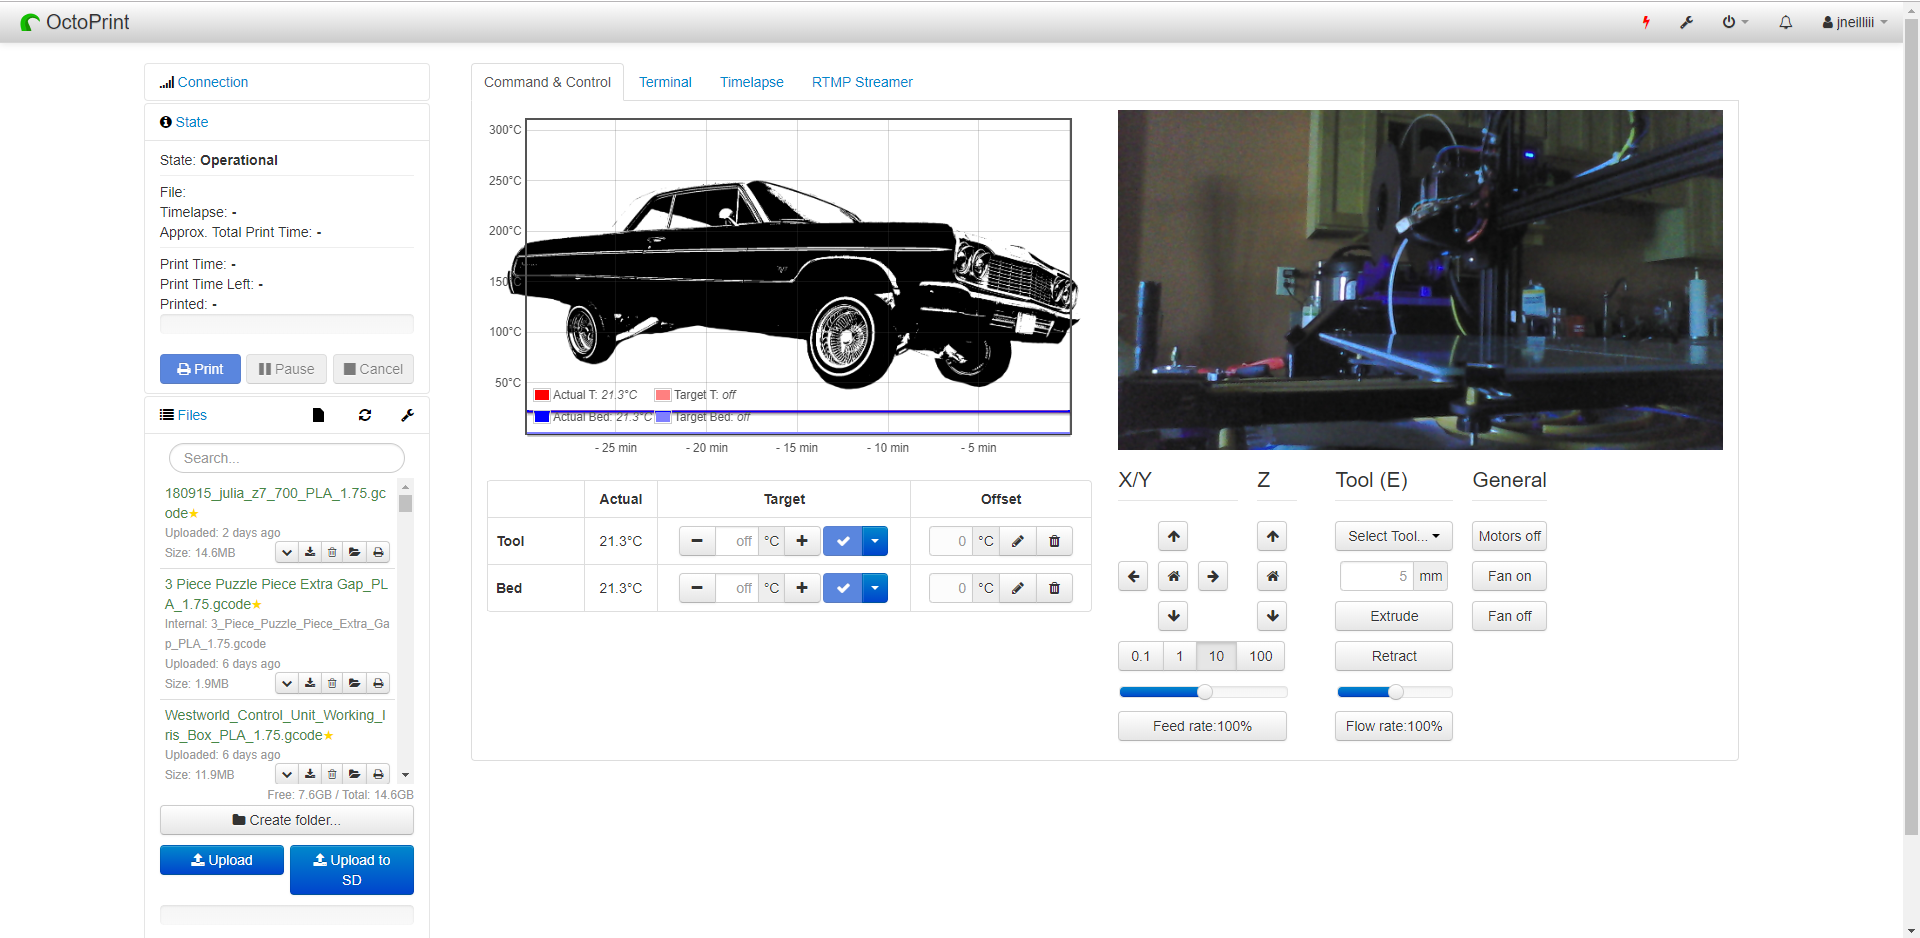
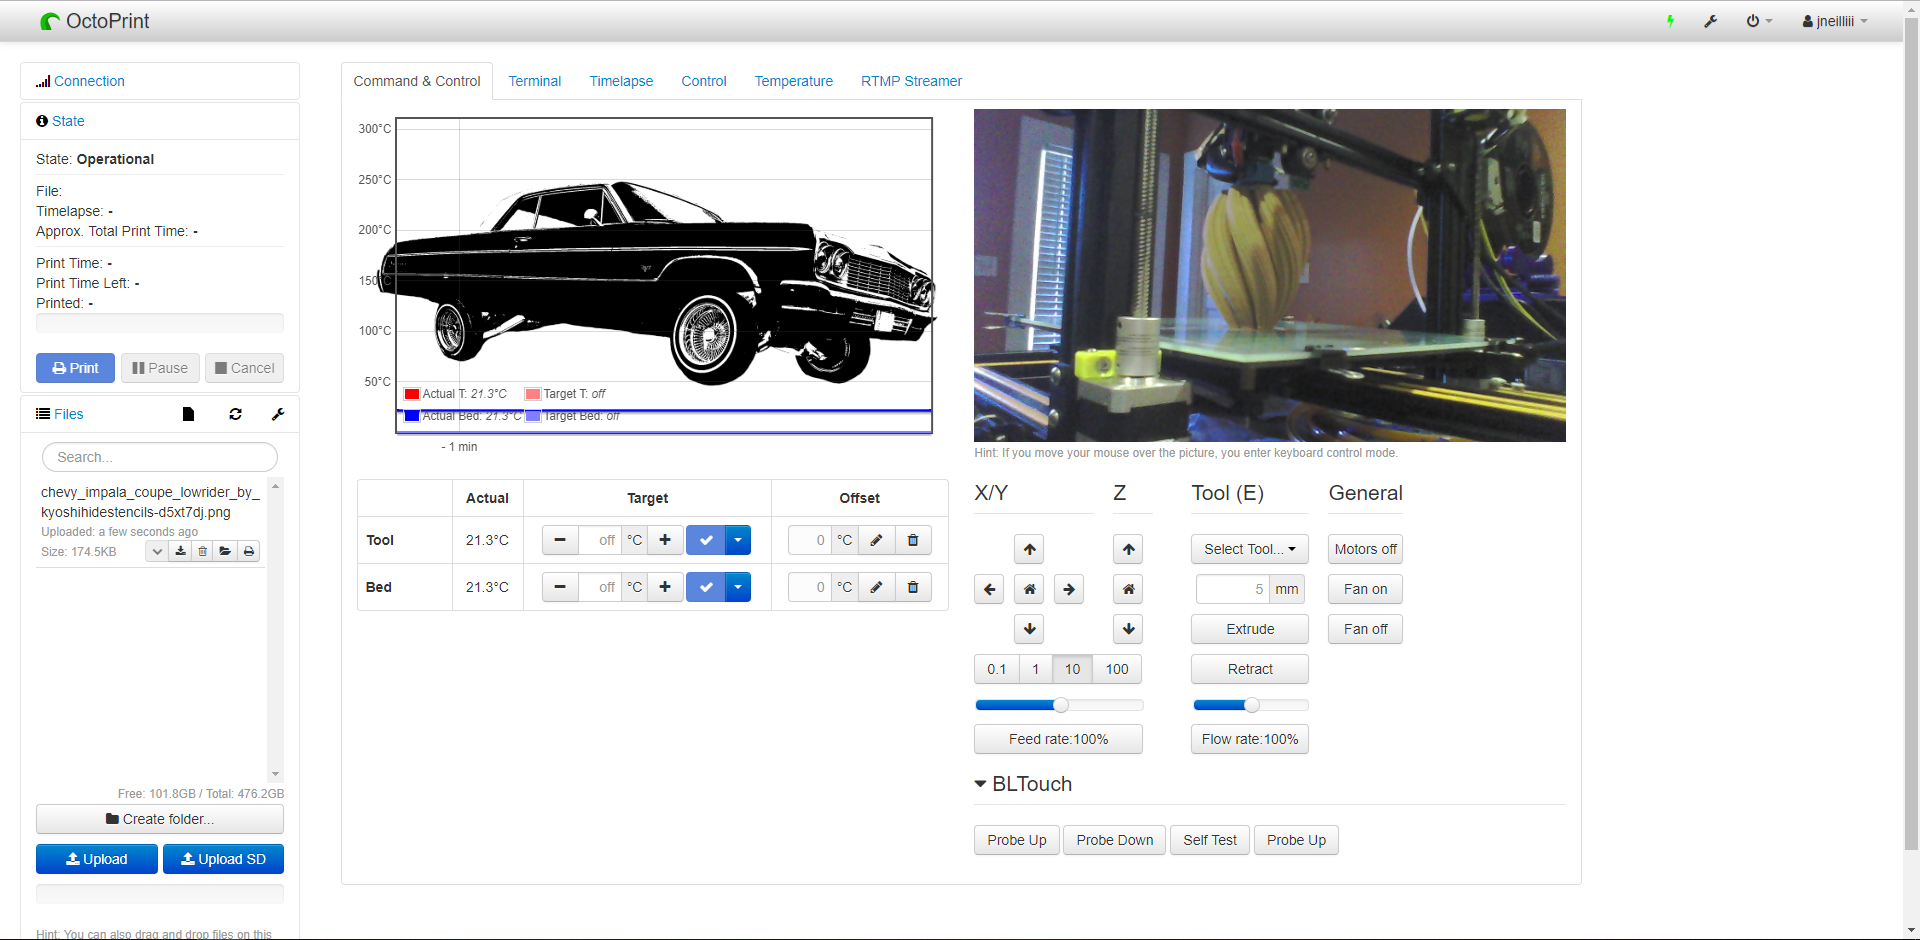
0.1.1

diff --git a/octoprint_consolidate_temp_control/static/js/consolidate_temp_control.js b/octoprint_consolidate_temp_control/static/js/consolidate_temp_control.js
@@ -5,20 +5,36 @@ $(function() {
         self.controlViewModel = parameters[0];
         self.temperatureViewModel = parameters[1];
 		
+		// hide orginal temp and control tab
 		$('#control_link,#temp_link').hide();
-		$('#navbar > div.navbar-inner > div.container').removeClass('container').addClass('row-fluid').css('padding-left','20px');
-		$('#navbar > div.navbar-inner > div.row-fluid > div.nav-collapse').css('padding-right','20px');
+		
+		// page container adjustments
+		$('div.page-container').css({'min-width':'1900px'});
+		
+		// navbar adjustments
+		$('#navbar > div.navbar-inner > div.container').css({'width':'100%'});
+		$('#navbar > div.navbar-inner > div.row-fluid > div.nav-collapse').css({'padding-right':'20px'});
+		
+		// main content adjustments
 		$('div.container.octoprint-container').addClass('row-fluid');
-		$('div.container.octoprint-container.row-fluid > div.row > div.accordion.span4').removeClass('span4').addClass('span2');
-		$('div.container.octoprint-container.row-fluid > div.row').css('margin-left','20px');
+		$('div.container.octoprint-container.row-fluid > div.row').css({'margin-left':'20px','padding-right':'20px'});
+		
+		// sidebar adjustments
+		$('div.container.octoprint-container > div.row > div.accordion.span4').removeClass('span4').addClass('span2');
 		$('#files div.row-fluid.upload-buttons > span.btn.btn-primary.fileinput-button.span6:nth-child(2) > span').text('Upload SD');
+		
+		// tabs adjustments
+		$('div.container.octoprint-container > div.row > div.tabbable.span8').removeClass('span8').addClass('span10');
+		$('div#tabs_content div.tab-pane:not("#tab_plugin_consolidate_temp_control")').wrapInner('<div class="span6"></div>');
+		$('div#tabs_content div.tab-pane:not("#tab_plugin_consolidate_temp_control") div.span6').wrap('<div class="row-fluid"></div>');
+		
+		// footer adjustments
+		$('div.container.octoprint-container > div.footer').css({'padding-left':'20px','padding-right':'20px'});
 
         // fix control tab
         self.onTabChange = function(current, previous) {
-            if (current === "#tab_plugin_consolidate_temp_control") {
+            if ((current === "#tab_plugin_consolidate_temp_control") || (current === "#temp") || (current === "#control")) {
                 var selected = OctoPrint.coreui.selectedTab;
-                OctoPrint.coreui.selectedTab = "#temp";
-                self.controlViewModel.onTabChange("#temp", previous);
                 OctoPrint.coreui.selectedTab = "#control";
                 self.controlViewModel.onTabChange("#control", previous);
                 OctoPrint.coreui.selectedTab = selected;
@@ -33,14 +49,28 @@ $(function() {
                 self.controlViewModel.onAllBound(allViewModels);
                 OctoPrint.coreui.selectedTab = selected;
         };
+		
+        self.controlViewModel.onBrowserTabVisibilityChange = function(status) {
+            if (status) {
+                var selected = OctoPrint.coreui.selectedTab;
+				OctoPrint.coreui.selectedTab = "#control";
+                self.controlViewModel._enableWebcam();
+                OctoPrint.coreui.selectedTab = selected;
+            } else {
+                self.controlViewModel._disableWebcam();
+            }
+        };
 
         // fix temperature tab
         self.onAfterTabChange = function(current, previous) {
-            if (current === "#tab_plugin_consolidate_temp_control") {
+            if ((current === "#tab_plugin_consolidate_temp_control") || (current === "#temp") || (current === "#control")) {
+				if (!self.temperatureViewModel.plot) {
+					self.temperatureViewModel._initializePlot();
+				} else {
+					self.temperatureViewModel.updatePlot();
+				}				
                 self.temperatureViewModel.onAfterTabChange("#temp", previous);
-            } else if (previous === "#tab_plugin_consolidate_temp_control") {
-                self.temperatureViewModel.onAfterTabChange(current, "#temp");
-            }
+            } 
         }
     }
 

diff --git a/setup.py b/setup.py
@@ -14,7 +14,7 @@ plugin_package = "octoprint_consolidate_temp_control"
 plugin_name = "OctoPrint-ConsolidateTempControl"
 
 # The plugin's version. Can be overwritten within OctoPrint's internal data via __plugin_version__ in the plugin module
-plugin_version = "0.1.0"
+plugin_version = "0.1.1"
 
 # The plugin's description. Can be overwritten within OctoPrint's internal data via __plugin_description__ in the plugin
 # module
